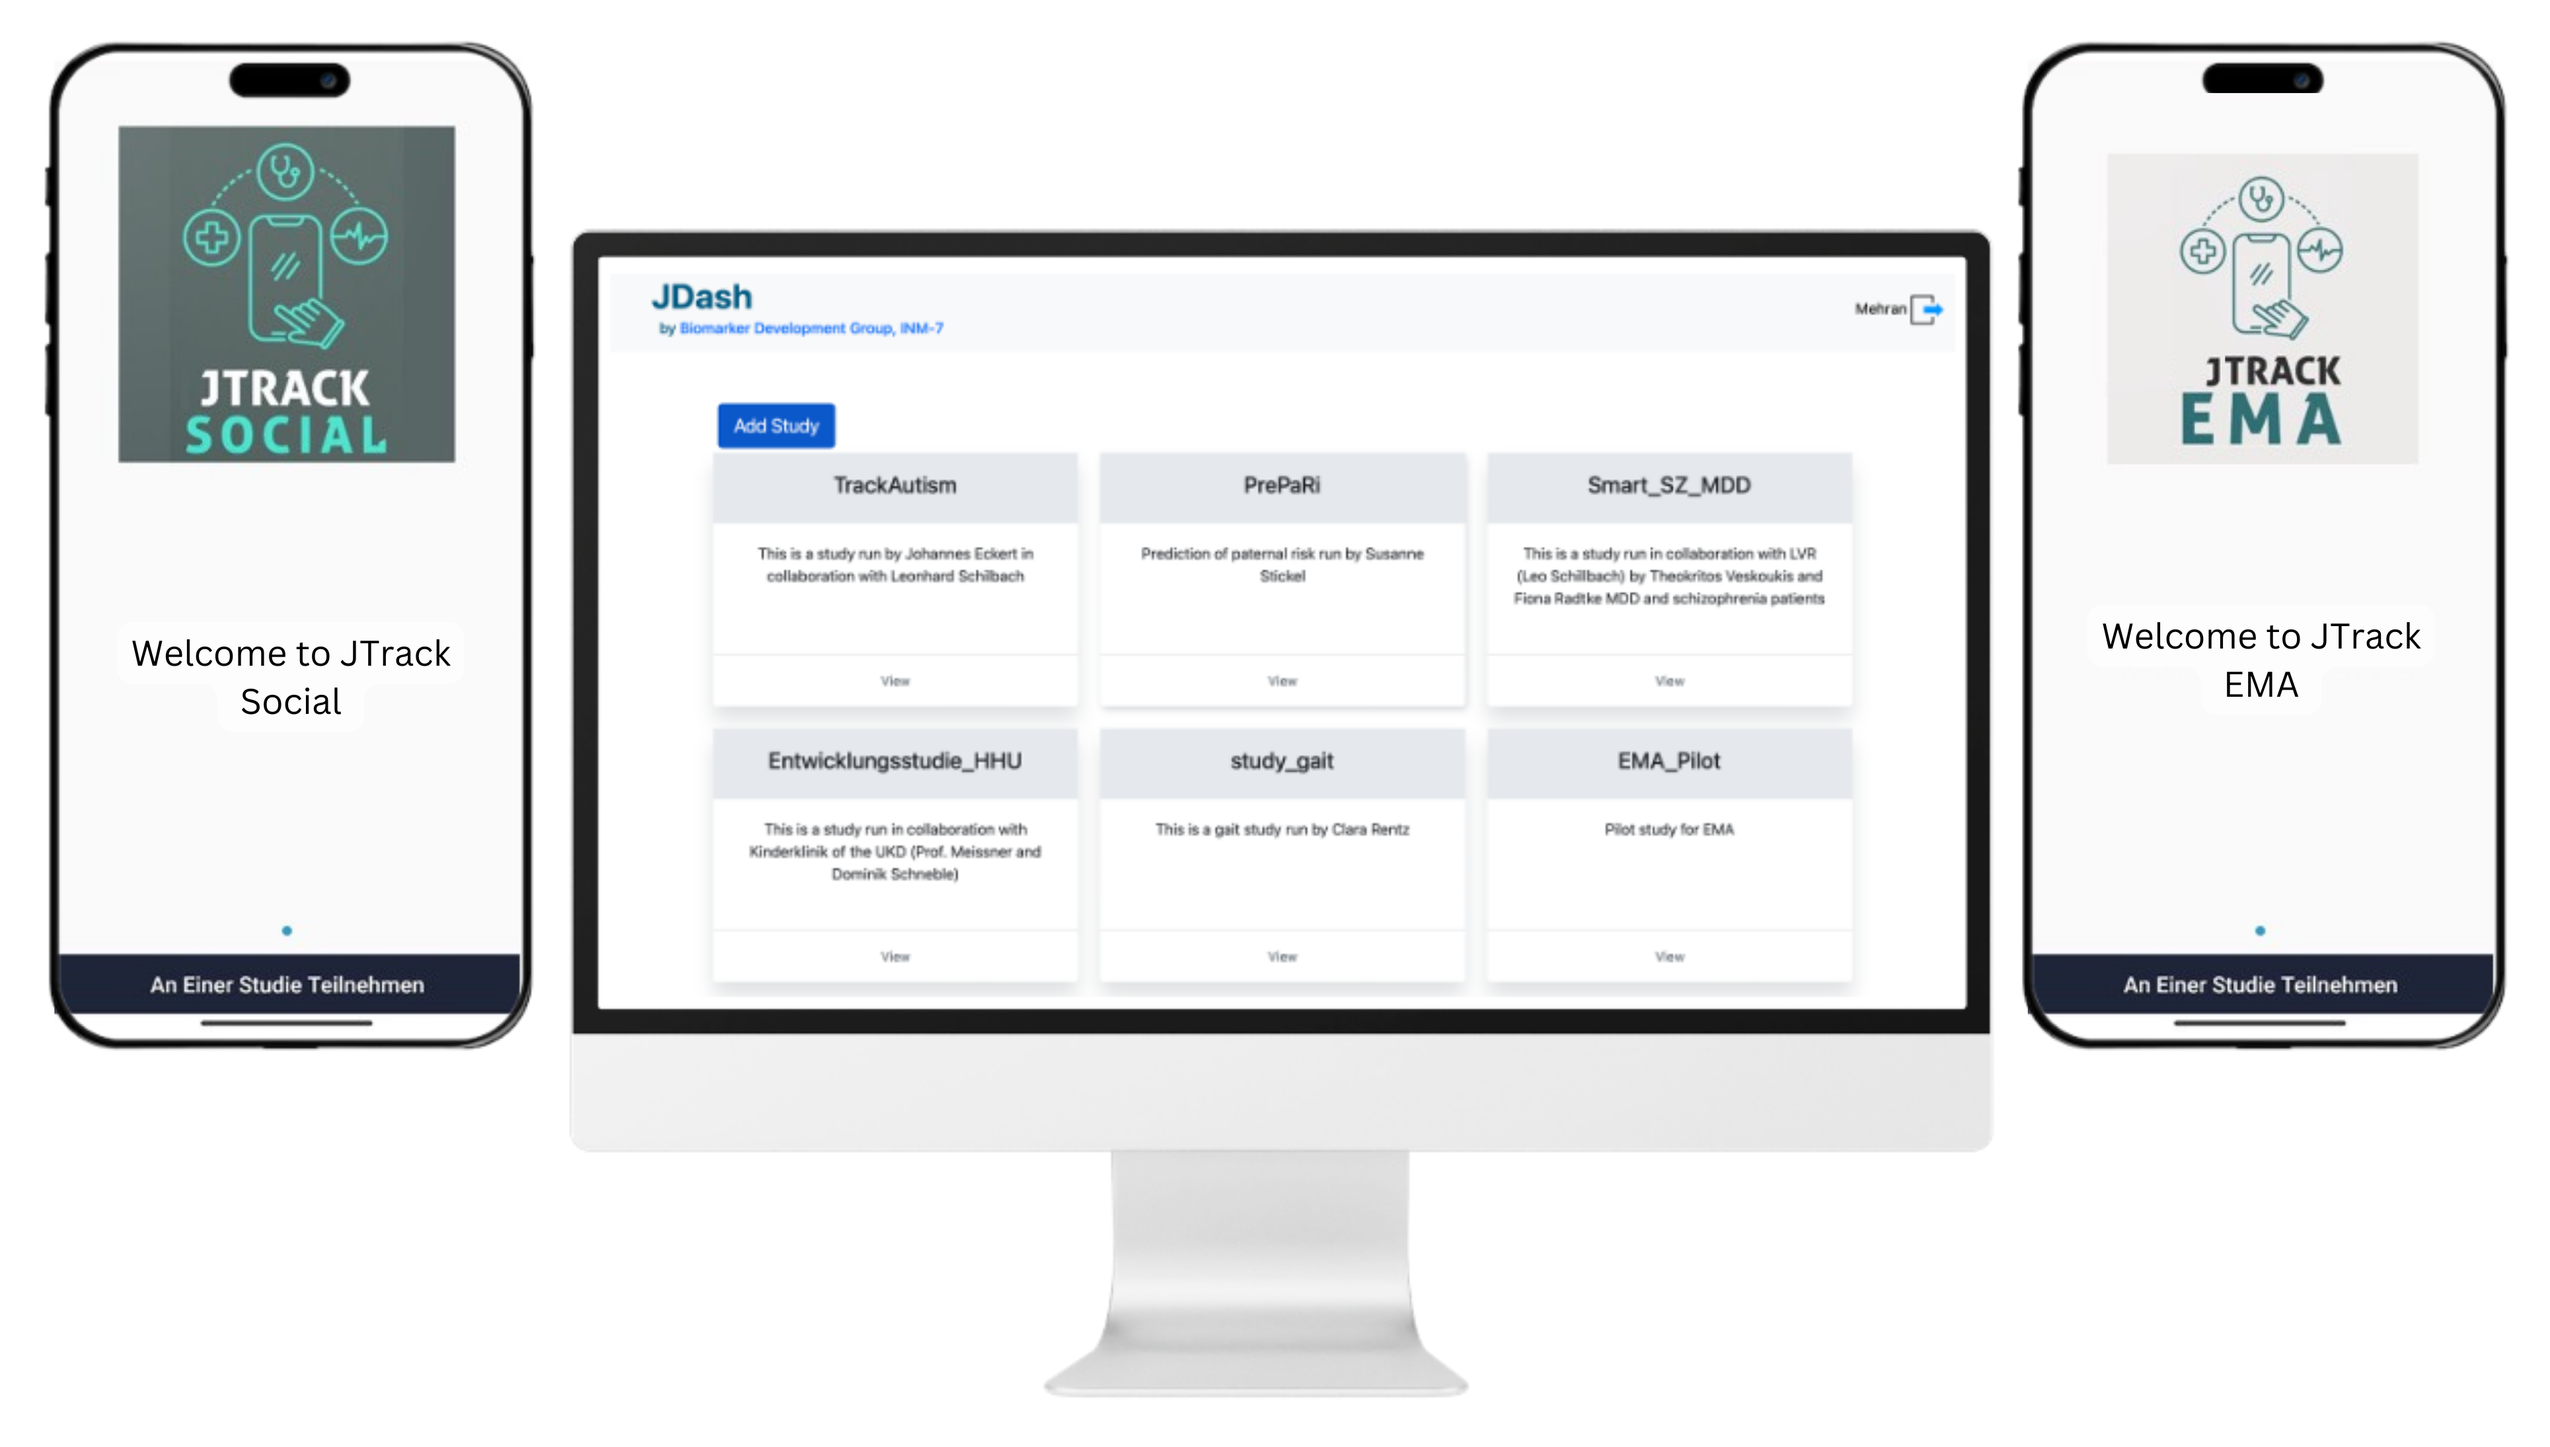
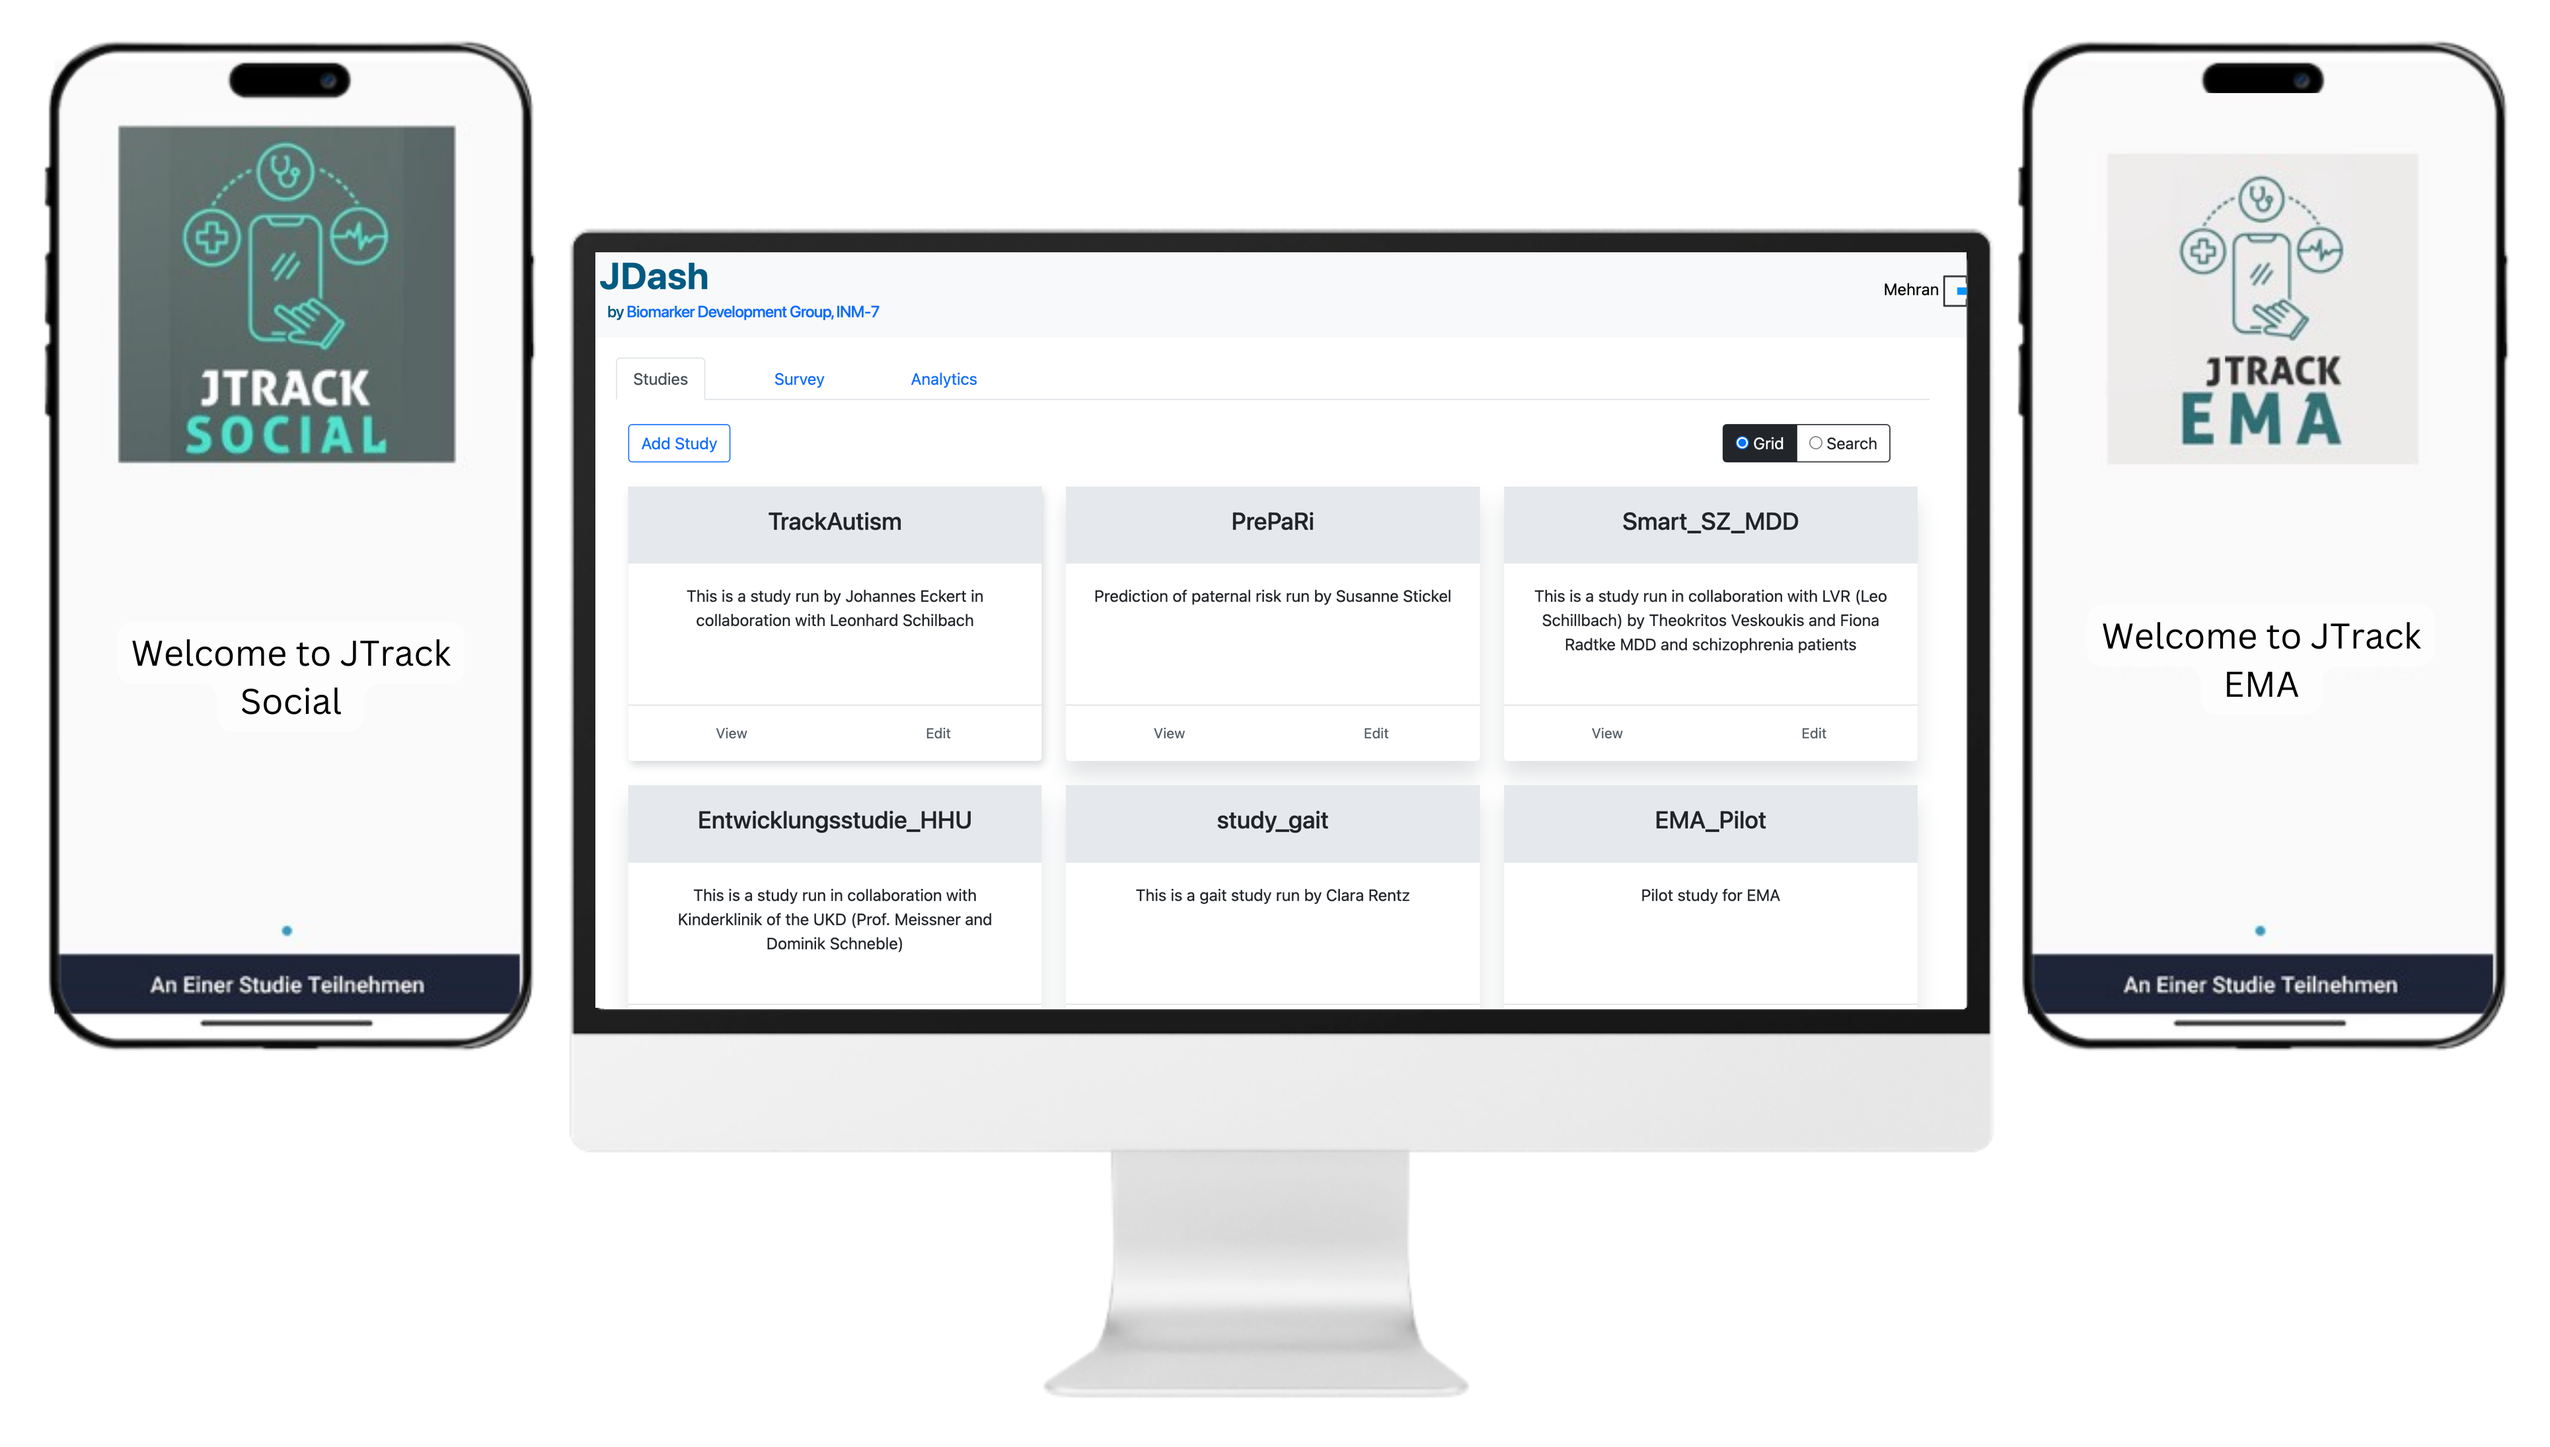
updated images

Changed region(s): [[0.2177, 0.1552, 0.7774, 0.6828], [0.5908, 0.6518, 0.7152, 0.6828], [0.4353, 0.6518, 0.5597, 0.6828]]

diff --git a/docs/source/JTrack_Dashboard.rst b/docs/source/JTrack_Dashboard.rst
@@ -53,7 +53,7 @@ Start the app
 
    $ python manage.py runserver
 
-At this point, the app runs at http://127.0.0.1:8000/.
+At this point, the app runs at :literal:`http://127.0.0.1:8000/`.
 
 Manage App Users
 
@@ -62,12 +62,14 @@ Manage App Users
    Create Superusers
 
    To access the admin section, Django requires superuser privilegies. Let's create a new superuser and access the admin section of the project:
+
 .. code-block:: shell
+
    $ python manage.py createsuperuser
 
 Once the superuser is successfully created, we can access the admin section:
 
-http://localhost:8000/admin/
+:literal:`http://localhost:8000/admin/`
 
    Create Groups
 
@@ -101,6 +103,10 @@ Usage
    :scale: 30 %
    :align: center
 
+* **(c)** Search view of all the studies.
+.. image:: image/dash_display_search_view.png
+   :scale: 30 %
+   :align: center
 Studies
 
    Create a new study
@@ -132,7 +138,7 @@ Studies
    * **(a)** Navigating to **Close Study** directs to an empty dropdown list containing all ongoing studies that can be closed.
    * **(b)** Selecting a study and pressing **'Close study'** below closes (i. e. moves it to the archive) the study (*Confirmation needed*).
 
-   .. image:: image/dash_send_notification.png
+   .. image:: image/dash_close_study.png
       :scale: 30 %
       :align: center
 
@@ -140,12 +146,12 @@ Studies
 
    Other Features
 
-   .. important:: Click **'Refresh'** to refresh the data to view current status of subjects/sensors.
-   .. important:: Click **'Download unused study sheets'** to download participant sheets that were not used yet.
-   .. important:: Click **'Download Data'** to download study data.
-   .. important:: Click **'Delete Subjects'** to delete subject data from the study and server.
+   * **(a)** Click **'Refresh'** to refresh the data to view current status of subjects/sensors.
+   * **(b)** Click **'Download unused study sheets'** to download participant sheets that were not used yet.
+   * **(c)** Click **'Download Data'** to download study data.
+   * **(d)** Click **'Delete Subjects'** to delete subject data from the study and server.
 
-   .. image:: image/dash_send_notification.png
+   .. image:: image/dash_features.png
       :scale: 30 %
       :align: center
 
@@ -162,7 +168,7 @@ Subjects
    Create/Remove  subjects
    .. important:: In **Remove user** section select an user to remove him/her from the study (*Confirmation needed*).
 
-      .. image:: image/dash_create_remove_subjects.png
+   .. image:: image/dash_create_remove_subjects.png
       :scale: 30 %
       :align: center
 
